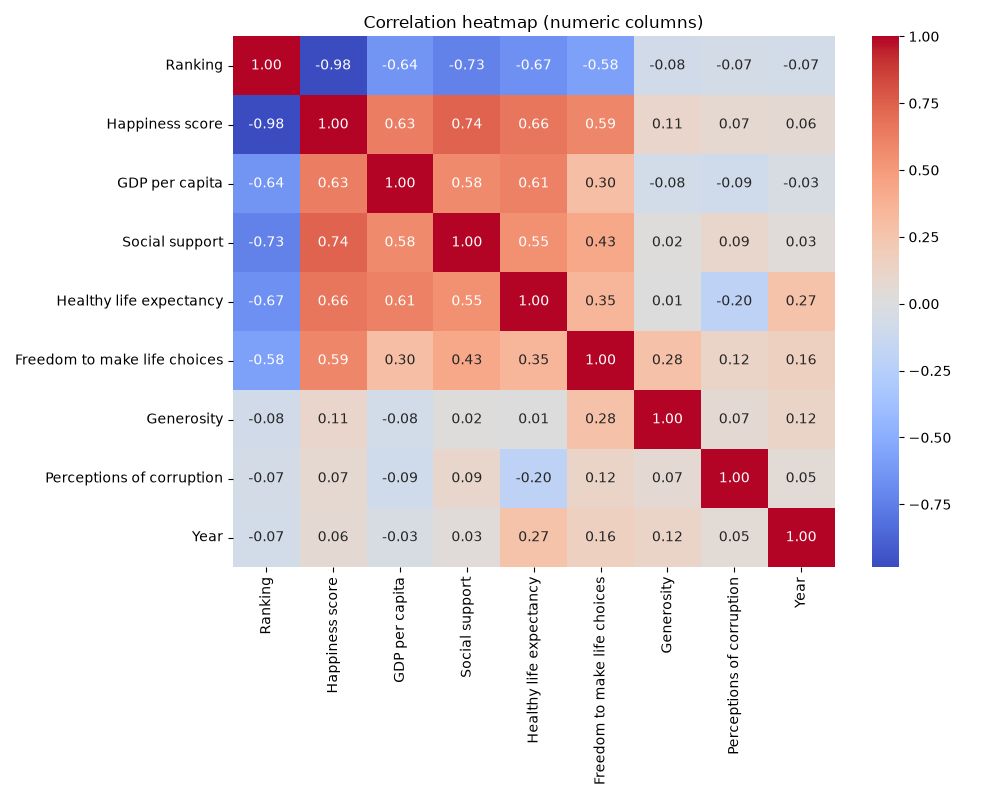
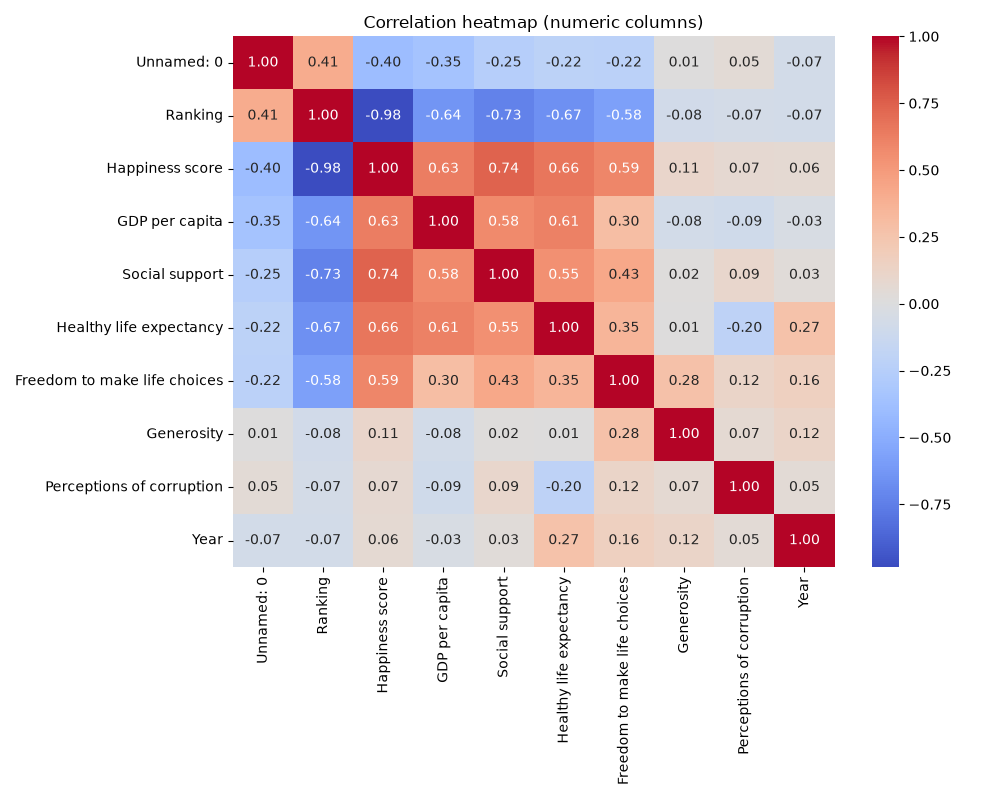
finished part 1 of scikit learn

diff --git a/assignments_02/warmup_02.py b/assignments_02/warmup_02.py
@@ -1,0 +1,113 @@
+# Amir Daniali
+# https://github.com/amirdaniali
+# Code The Dream  PyAICC 26.3
+# Week 2
+
+# --- The scikit-learn API ---
+
+# Sklearn Q1
+
+"""The core pattern in scikit-learn is create → fit → predict. Practice it here with a simple dataset: years of work experience versus annual salary.
+
+import numpy as np
+from sklearn.linear_model import LinearRegression
+
+years  = np.array([1, 2, 3, 5, 7, 10]).reshape(-1, 1)
+salary = np.array([45000, 50000, 60000, 75000, 90000, 120000])
+
+Create a LinearRegression model, fit it to this data, and then predict the salary for someone with 4 years of experience and someone with 8 years. Print the slope (model.coef_[0]), the intercept (model.intercept_), and the two predictions. Label each printed value.
+"""
+
+import numpy as np
+from sklearn.linear_model import LinearRegression
+
+years = np.array([1, 2, 3, 5, 7, 10]).reshape(-1, 1)
+salary = np.array([45000, 50000, 60000, 75000, 90000, 120000])
+
+model = LinearRegression()
+model.fit(years, salary)
+print(f"Slope: {model.coef_[0]}")
+print(f"Intercept: {model.intercept_}")
+print(f"Salary for someone with 4 years of experience: {model.predict([[4]])}")
+print(f"Salary for someone with 8 years of experience: {model.predict([[8]])}")
+
+# Sklearn Q2
+
+"""scikit-learn requires the feature array X to be 2D even when you only have one feature. Start with this 1D array:
+
+x = np.array([10, 20, 30, 40, 50])
+
+Print its shape. Use .reshape() to convert it to a 2D array and print the new shape. Add a comment explaining, in your own words, why scikit-learn needs X to be 2D."""
+
+x = np.array([10, 20, 30, 40, 50])
+
+x_modified = x.reshape(-1, 1)
+print(f"Original Shape: {x.shape}")
+print(f"Modified Shape: {x_modified.shape}")
+
+"""
+Scikit-learn needs X to be 2D to distinguish between features and samples. The x[0] is the first feature, and x[1] is the second feature and so on. Each feature has multiple samples. Scikit needs to know if we have 5 features total with 1 sample each or if we have 1 feature with 5 samples."""
+
+# Sklearn Q3
+
+"""K-Means is an unsupervised algorithm that follows the same create → fit → predict pattern as everything else in scikit-learn. Use the code below to generate a synthetic dataset with three natural clusters:
+
+from sklearn.cluster import KMeans
+from sklearn.datasets import make_blobs
+import matplotlib.pyplot as plt
+
+X_clusters, _ = make_blobs(n_samples=120, centers=3, cluster_std=0.8, random_state=7)
+
+Create a KMeans model with n_clusters=3 and random_state=42, fit it to X_clusters, and predict a cluster label for each point. Print the cluster centers (kmeans.cluster_centers_) and how many points fell into each cluster using np.bincount(labels).
+Then create a scatter plot coloring each point by its cluster label, plot the cluster centers as black X's, add a title and axis labels. Save the figure to outputs/kmeans_clusters.png."""
+
+from sklearn.cluster import KMeans
+from sklearn.datasets import make_blobs
+import matplotlib.pyplot as plt
+
+X_clusters, _ = make_blobs(n_samples=120, centers=3, cluster_std=0.8, random_state=7)
+
+# plot: what K-Means discovers
+kmeans = KMeans(n_clusters=3, random_state=42)  # 1. Create the model
+kmeans.fit(X_clusters)  # 2. Fit -- find cluster centers
+labels = kmeans.predict(X_clusters)  # 3. Predict a label for each point
+
+for i, center in enumerate(kmeans.cluster_centers_):
+    plt.plot(center[0], center[1], "kx")
+    print(f"Cluster Center No {i}: {center}")
+    print(f"Number of points in cluster {i}: {np.bincount(labels)[i]}")
+
+plt.scatter(
+    X_clusters[:, 0], X_clusters[:, 1], c=labels, cmap="viridis", s=60, alpha=0.7
+)
+
+plt.title("Clusters Found by K-Means")
+plt.xlabel("Data Points")
+
+
+plt.tight_layout()
+plt.show()
+
+# Linear Regression
+
+# Linear Regression Q1
+
+"""Linear Regression
+
+The questions below all use the same synthetic medical costs dataset: 100 patients, each with an age (20 to 65), a smoker flag (0 = non-smoker, 1 = smoker), and an annual medical cost as the target. Generate it once and reuse the variables throughout.
+
+import os
+import numpy as np
+import matplotlib.pyplot as plt
+from sklearn.linear_model import LinearRegression
+from sklearn.model_selection import train_test_split
+
+np.random.seed(42)
+num_patients = 100
+age    = np.random.randint(20, 65, num_patients).astype(float)
+smoker = np.random.randint(0, 2, num_patients).astype(float)
+cost   = 200 * age + 15000 * smoker + np.random.normal(0, 3000, num_patients)
+
+Linear Regression Question 1
+Before fitting anything, look at the data. Create a scatter plot of age on the x-axis and cost on the y-axis. Color the points by smoker status by passing c=smoker and cmap="coolwarm" to plt.scatter(). Add a title "Medical Cost vs Age", label both axes, and save to outputs/cost_vs_age.png.
+Add a comment describing what you see. Are there two distinct groups visible? What does that suggest about the smoker variable?"""
